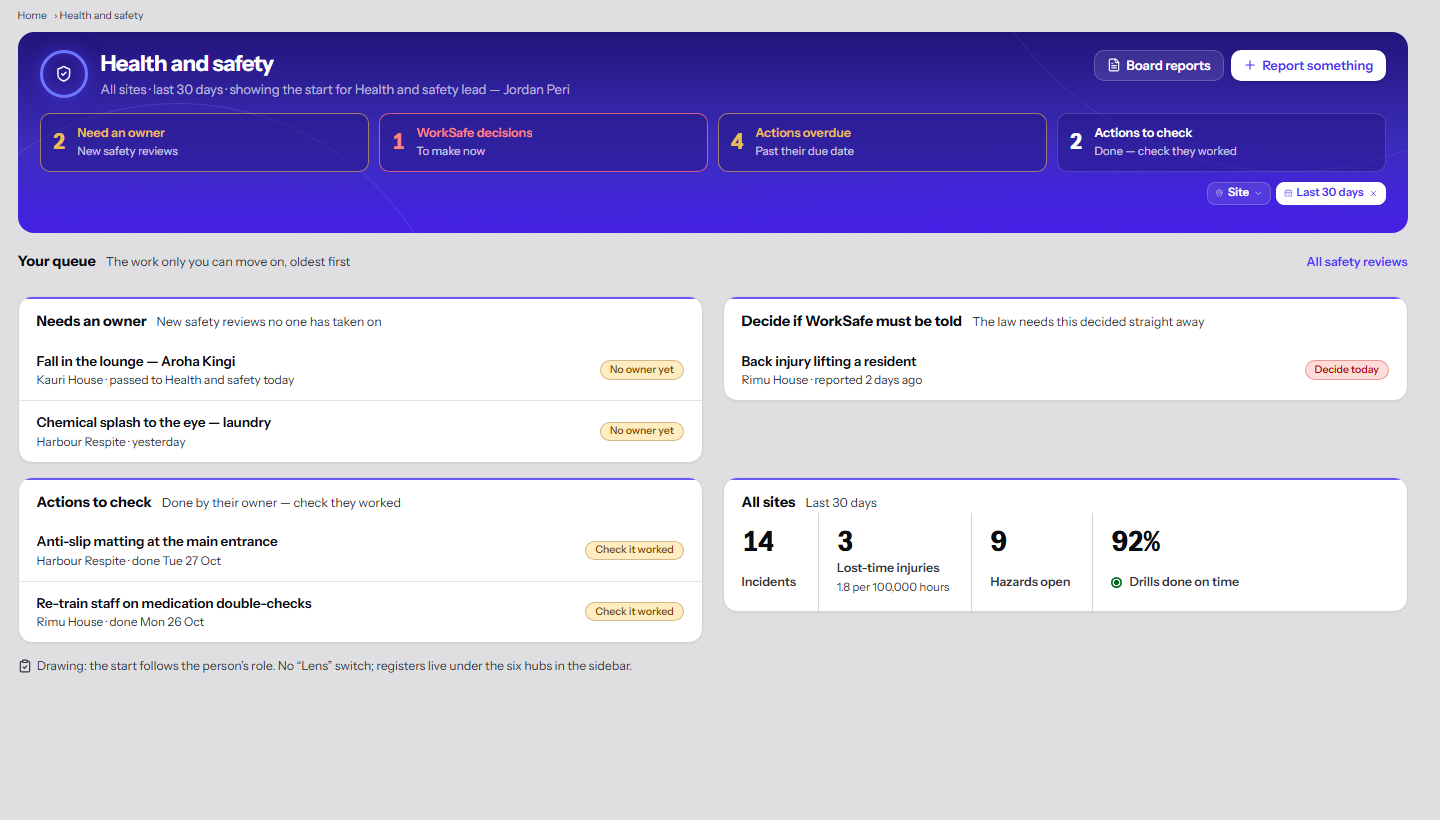
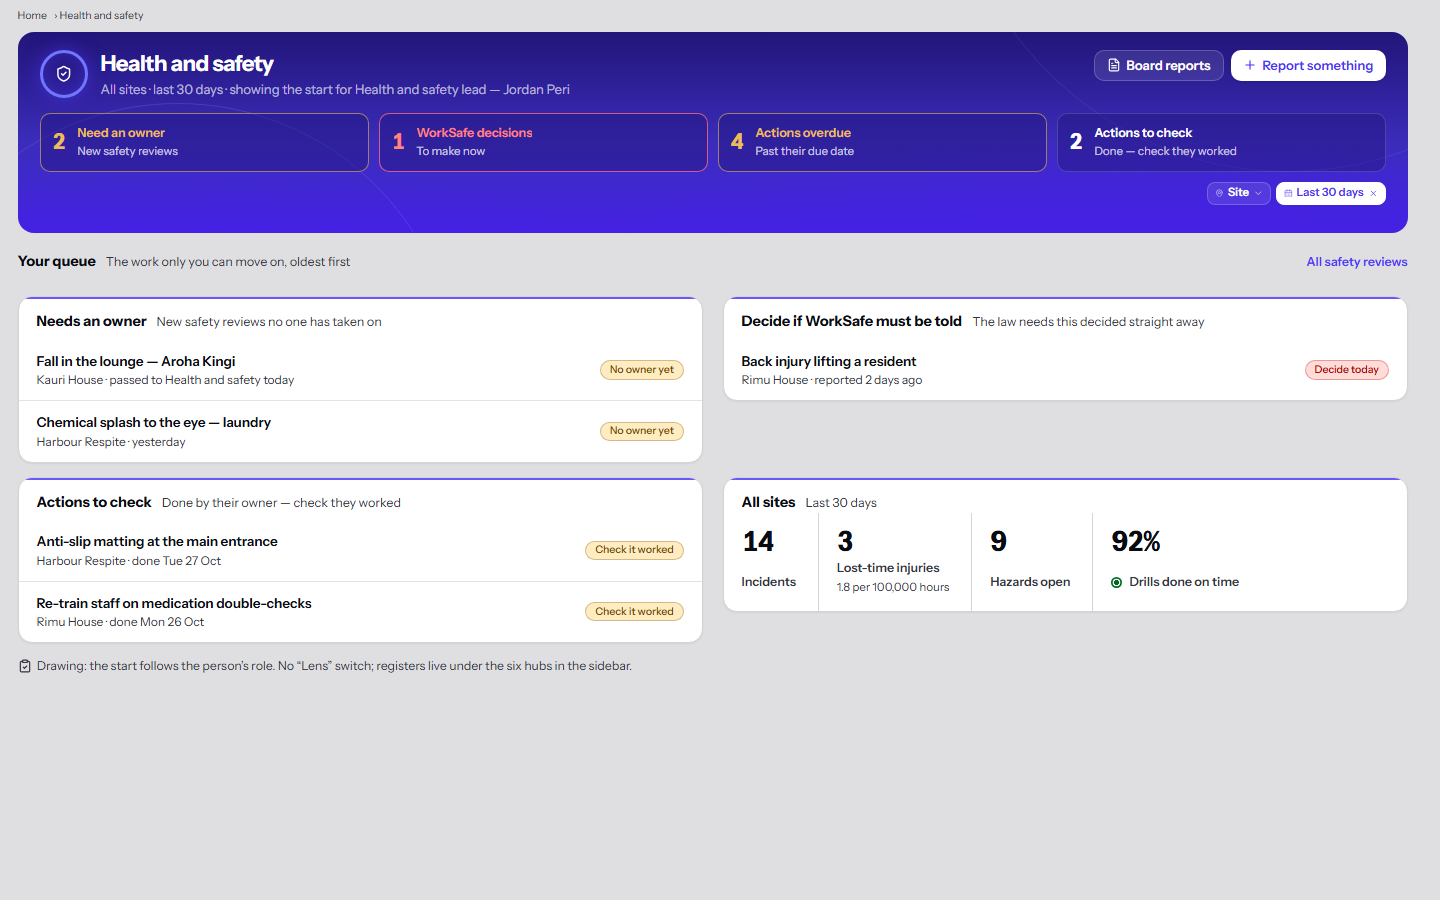
docs(health-safety): Part 2 drawings updated after MASTER's review; review and decision logged

Changed region(s): [[0.0, 0.0, 1.0, 0.8232]]

diff --git a/docs/health-safety-build/drawings/d3-accident-record.tsx b/docs/health-safety-build/drawings/d3-accident-record.tsx
@@ -31,7 +31,7 @@ export default function DrawingAccidentRecord() {
                         subline={`${ACCIDENT.site} · ${ACCIDENT.when} · Ref ${ACCIDENT.ref}`}
                         actions={<PageHeaderGlassButton icon={FileText}>Print summary</PageHeaderGlassButton>}
                         facts={<PageHeaderFacts items={[
-                            { value: 'Moderate', label: 'How bad', tone: 'warning' },
+                            { value: 'Moderate harm', tone: 'warning' },
                             { value: 'Jordan Peri', label: 'Owner' },
                             { value: 'Not notifiable', label: 'WorkSafe, decided Tue 27 Oct', tone: 'success' },
                             { value: 'Bruised left hip', label: 'Injury' },
@@ -98,7 +98,7 @@ export default function DrawingAccidentRecord() {
                             items={[
                                 { key: 1, title: 'First aid — cold pack on the left hip', sub: 'Given by Mere Tane · Mon 26 Oct, 7:50 pm', badge: <StatusBadge variant="success">Recorded</StatusBadge>, leading: <HeartPulse className="size-4" /> },
                                 { key: 2, title: 'Falls risk assessment for Aroha', sub: 'Review brought forward to Fri 6 Nov', badge: <StatusBadge variant="warning">Review due</StatusBadge>, leading: <FileText className="size-4" /> },
-                                { key: 3, title: 'GP visit notes', sub: 'Health record', badge: <StatusBadge variant="neutral">Hidden — you don’t have access</StatusBadge>, leading: <Lock className="size-4" /> },
+                                { key: 3, title: 'A health record — hidden, you don’t have access', leading: <Lock className="size-4" /> },
                             ]}
                         />
                     </div>
@@ -115,7 +115,7 @@ export default function DrawingAccidentRecord() {
                                 { key: 6, time: 'Wed 28 Oct', tone: 'info', title: 'Rāwiri Ngata gave his account', sub: 'Investigation' },
                                 { key: 5, time: 'Tue 27 Oct', tone: 'success', title: 'Decided: WorkSafe doesn’t need to be told', sub: 'Jordan Peri · not a serious injury' },
                                 { key: 4, time: 'Tue 27 Oct', tone: 'success', title: 'Passed to Health and safety', sub: 'Rāwiri Ngata → Jordan Peri' },
-                                { key: 3, time: 'Mon 26 Oct', tone: 'success', title: 'GP checked Aroha — no fracture', sub: 'Health record' },
+                                { key: 3, time: 'Mon 26 Oct', tone: 'none', title: 'Health record added — hidden' },
                                 { key: 2, time: 'Mon 26 Oct', tone: 'success', title: 'First aid given', sub: 'Mere Tane' },
                                 { key: 1, time: 'Mon 26 Oct', tone: 'success', title: 'Reported', sub: 'Mere Tane, 7:55 pm' },
                             ]}

diff --git a/docs/health-safety-build/drawings/d4-hub-tabs.tsx b/docs/health-safety-build/drawings/d4-hub-tabs.tsx
@@ -12,14 +12,14 @@ import AppLayout from '@/layouts/app-layout';
 import { Head } from '@inertiajs/react';
 import { AlertOctagon, MapPin, Plus } from 'lucide-react';
 
-type Tab = 'hazards' | 'risk' | 'chemicals' | 'ppe' | 'procedures' | 'drills';
+type Tab = 'hazards' | 'risk' | 'chemicals' | 'ppe' | 'procedures' | 'drills' | 'lone';
 
 const HUBS: [string, string][] = [
     ['Overview', 'Your start · the numbers that matter'],
-    ['Incidents and safety reviews', 'Incidents · Safety reviews · Actions · WorkSafe notifications'],
+    ['Incidents and safety reviews', 'Incidents · Safety reviews · Actions · WorkSafe notifications · Safeguarding concerns'],
     ['Injuries and care', 'Workplace injuries · First aid · Restraints · Chemical exposures'],
-    ['Risks and prevention', 'Hazards · Risk assessments · Chemicals · Protective gear (PPE) · Procedures · Drills'],
-    ['People and participation', 'Health and safety representatives · Committees · Consultations · Working alone'],
+    ['Risks and prevention', 'Hazards · Risk assessments · Chemicals · Protective gear (PPE) · Procedures · Drills · Working alone (under More)'],
+    ['People and participation', 'Health and safety representatives · Committees · Consultations'],
     ['Reports', 'Trends · Board reports'],
 ];
 
@@ -55,7 +55,9 @@ export default function DrawingHub() {
                                 { key: 'ppe', label: 'Protective gear' },
                                 { key: 'procedures', label: 'Procedures' },
                                 { key: 'drills', label: 'Drills' },
+                                { key: 'lone', label: 'Working alone' },
                             ]}
+                            maxVisible={6}
                         />}
                     />
                 }

diff --git a/docs/health-safety-build/drawings/d1-overview-start.tsx b/docs/health-safety-build/drawings/d1-overview-start.tsx
@@ -22,7 +22,8 @@ function Start({ role }: { role: Role }) {
                             ['Someone was hurt or nearly hurt', 'Report an incident'],
                             ['Something could hurt someone', 'Report a hazard'],
                             ['You gave first aid', 'Record first aid'],
-                            ['You’re working alone tonight', 'Start working alone'],
+                            ['You’re about to work alone', 'Start working alone'],
+                            ['You’re worried a person is being harmed', 'Raise a safeguarding concern'],
                         ].map(([q, a]) => (
                             <div key={q} className="rounded-xl border border-border bg-card p-3">
                                 <div className="text-sm font-semibold text-foreground">{q}</div>
@@ -132,7 +133,7 @@ export default function DrawingOverview({ role = 'hs_manager' as Role }: { role?
                         subline={`${scope} · last 30 days · showing the start for ${ROLE_LABEL[role]}`}
                         actions={
                             <>
-                                {role !== 'support_worker' ? <PageHeaderGlassButton icon={FileText}>Board reports</PageHeaderGlassButton> : null}
+                                {role === 'hs_manager' ? <PageHeaderGlassButton icon={FileText}>Board reports</PageHeaderGlassButton> : null}
                                 <PageHeaderPrimaryButton icon={Plus}>Report something</PageHeaderPrimaryButton>
                             </>
                         }

diff --git a/docs/health-safety-build/PLAN.md b/docs/health-safety-build/PLAN.md
@@ -391,3 +391,28 @@ Still failing the same way on main (main's own tests, not skipped; same messages
 - **Incidents list shows incidents of archived Sites and deleted clients** (INC-2026-0142, INC-2026-0145 on the .com). Ease-of-use pass: lists hide archived Sites and deleted clients.
 - **Security & Devices** `device-profile-header.test.tsx` fails 2 cases on this branch and main alike (not touched here).
 - **Main's own Pest failures seen during these gates:** `SecurityAccessControlTest` "incident update cannot escalate portal visibility" (403), `ClientProfileFoundationTest` 2 cases (medical section shown to an assigned worker) — both fail the same way with main's code.
+
+## Part 2 drawings — reviewed by MASTER (30 Oct, for Stephan)
+
+Drawings: `docs/health-safety-build/drawings/` (`63f658209`, updated after review). **Approved with changes**, all made in the drawings:
+- D3 (one accident record), privacy, must:
+  - a hidden linked record shows only "A health record — hidden, you don't have access", with no title;
+  - timeline entries from records the viewer can't read show only "Health record added — hidden", with no summary;
+  - build needs a test for both with a viewer without access.
+- D3, wording: "Moderate harm" instead of "Moderate · How bad".
+- D1 (Overview starts):
+  - the support worker's subline shows their own house;
+  - "You're about to work alone" (matches D2);
+  - the safeguarding choice "You're worried a person is being harmed" is on every start;
+  - Board reports only for board access;
+  - built lists use the standard row patterns (row click, kebab, right-click).
+- D2 (Report something): approved as drawn. After the decision below, it shows only the choices the person may use, but safeguarding and "A person was hurt" stay for everyone.
+- D4 (hubs):
+  - Safeguarding concerns is a tab in "Incidents and safety reviews";
+  - Working alone moves to "Risks and prevention" (a hazard control; seventh tab, under More); "People and participation" keeps representatives, committees and consultations.
+- **Decision (MASTER for Stephan to confirm in the morning):** support workers may **report** (create only) workplace injuries and restraints, because prompt reporting is safer and Ngā Paerewa expects every restraint recorded.
+  - They may not review, approve or close them.
+  - They see only what they reported, plus their own injury.
+  - It's built **last** in Part 2, in its own commit, so it can be vetoed.
+
+**Build order:** D2 Report something → D1 Overview header and role starts → D4 hubs with tabs → D3 one accident record → the support-worker create permission (own commit).
